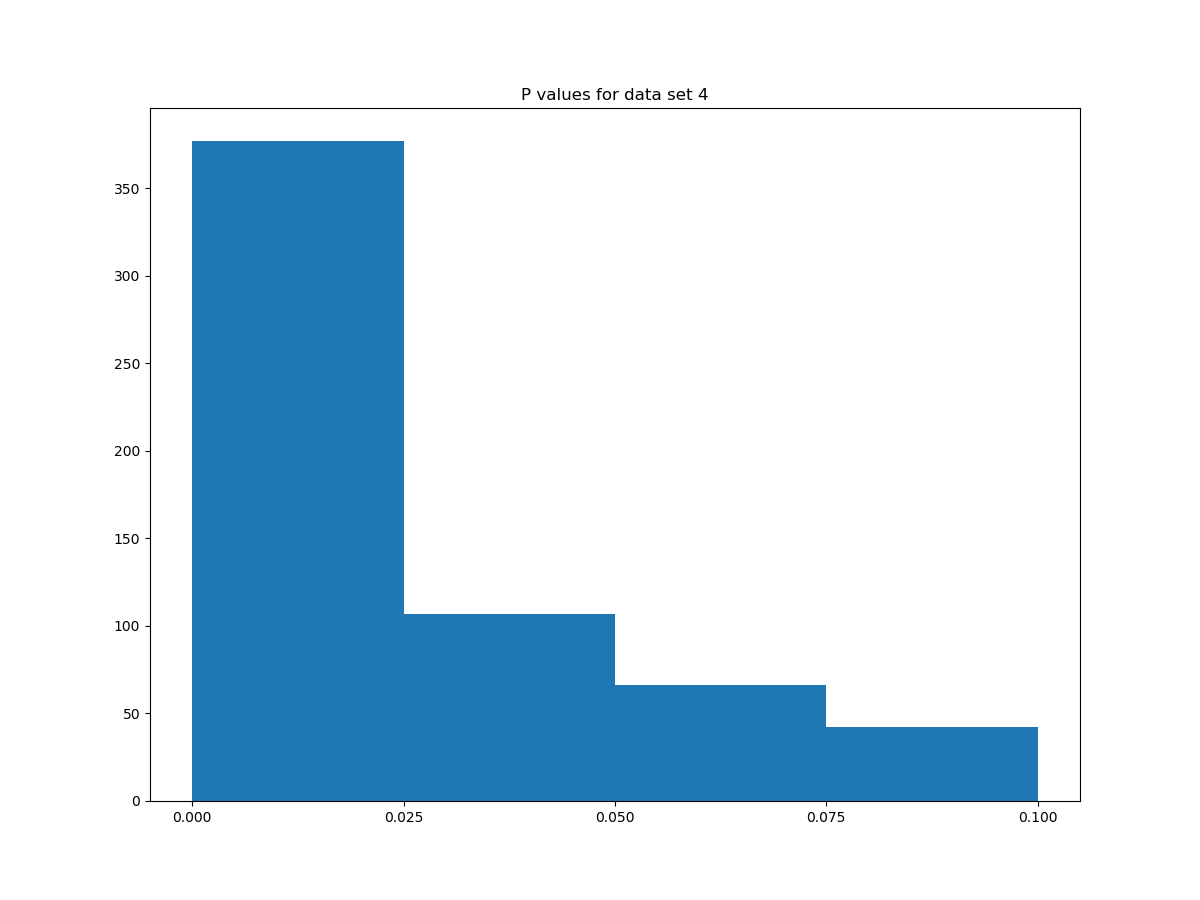
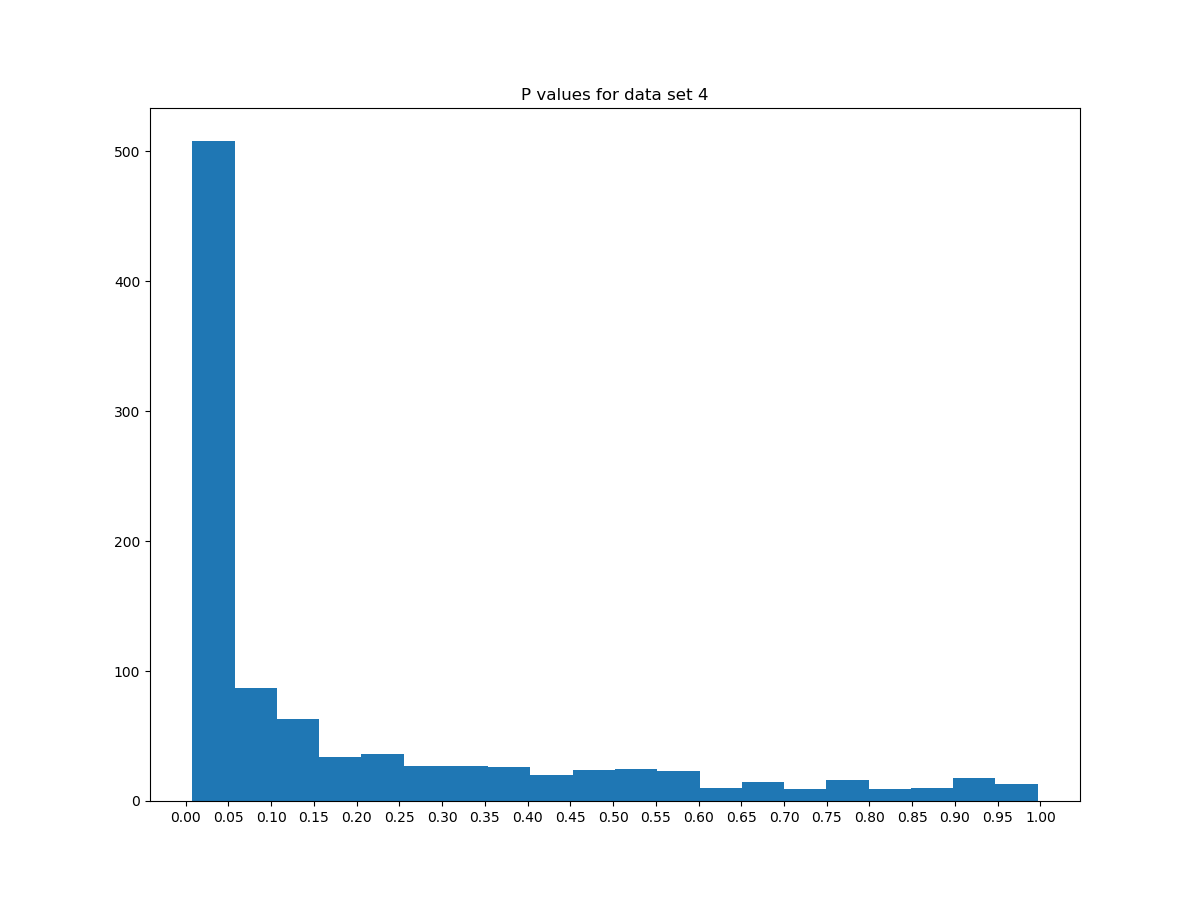
good p values

diff --git a/hw/project2/project2.py b/hw/project2/project2.py
@@ -86,7 +86,7 @@ def pvalreject(pval):
 
 #Gets values for Ix(m,m) to answer 2b 
 z_alpha1 = 1/2 + 1.96/sqrt(8*m+4)
-z_alpha2 = -1/2 - 1.96/sqrt(8*m+4) 
+z_alpha2 = 1/2 - 1.96/sqrt(8*m+4) 
 alpha_estimate = 1 - (scipy.special.betainc(m,m,z_alpha1)-scipy.special.betainc(m,m,z_alpha2))
 solutions = open('hopkins.txt', 'w')
 solutions.writelines('Part 2c: The estimate for alpha is {0}\n\n'.format(alpha_estimate))
@@ -112,8 +112,9 @@ solutions.writelines(['['+pvalswrite[0]+'\t', pvalswrite[1]+'\t', pvalswrite[2]+
 #for 2f, decides whether or not to reject null hypothesis 
 pval_decide = [pvalreject(element) for element in pvals2e]
 solutions.write('\n\nPart 2f: decide whether or not to reject the null hypothesis\n')
-print('[1:'+pval_decide[0], ',\n2:'+pval_decide[1], ',\n3:'+pval_decide[2], ',\n4:'+pval_decide[3], ',\n5:'+pval_decide[4]+']')
-solutions.writelines(['[1:'+pval_decide[0], ',\n2:'+pval_decide[1], ',\n3:'+pval_decide[2], ',\n4:'+pval_decide[3], ',\n5:'+pval_decide[4]+']'])
+reject_string =['[1:'+pval_decide[0], '\n2:'+pval_decide[1], '\n3:'+pval_decide[2], '\n4:'+pval_decide[3], '\n5:'+pval_decide[4]+']']
+print(reject_string)
+solutions.writelines(reject_string)
 
 #Begins section 3
 
@@ -243,8 +244,8 @@ plt.close()
 
 plt.figure(figsize=(12,9))
 plt.title('P values for data set 4')
-plt.xticks(np.linspace(0,0.1,5))
-plt.hist(p3p4, bins=[0,0.025,0.05,0.075,0.1])
+plt.xticks(np.linspace(0,1,21))
+plt.hist(p3p4, bins=20)
 plt.savefig('p4.png') 
 plt.clf()
 plt.cla()
